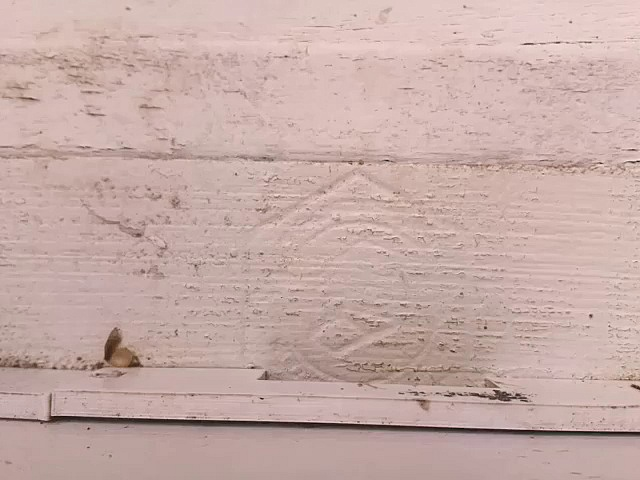
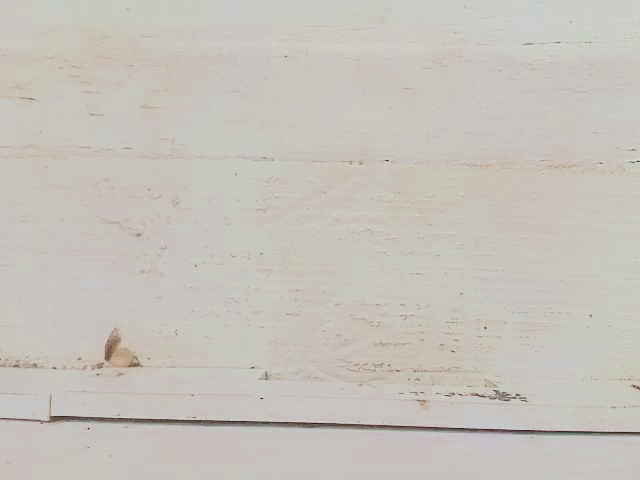
Edited testbkgrd1 for better subtraction

diff --git a/Files/stationary_detector.py b/Files/stationary_detector.py
@@ -37,7 +37,7 @@ while True:
     if img1 is not None:
 
         #take first threshold
-        bk = cv2.imread('Assets/testbkgrd1.jpg')
+        bk = cv2.imread('Assets/sharpbackground.jpg')
         subImage1=(bk.astype('int32')-img1.astype('int32')).clip(0).astype('uint8')
         grey1=cv2.cvtColor(subImage1,cv2.COLOR_BGR2GRAY)
         retval1,thresh1=cv2.threshold(grey1,35,255,cv2.THRESH_BINARY_INV)
